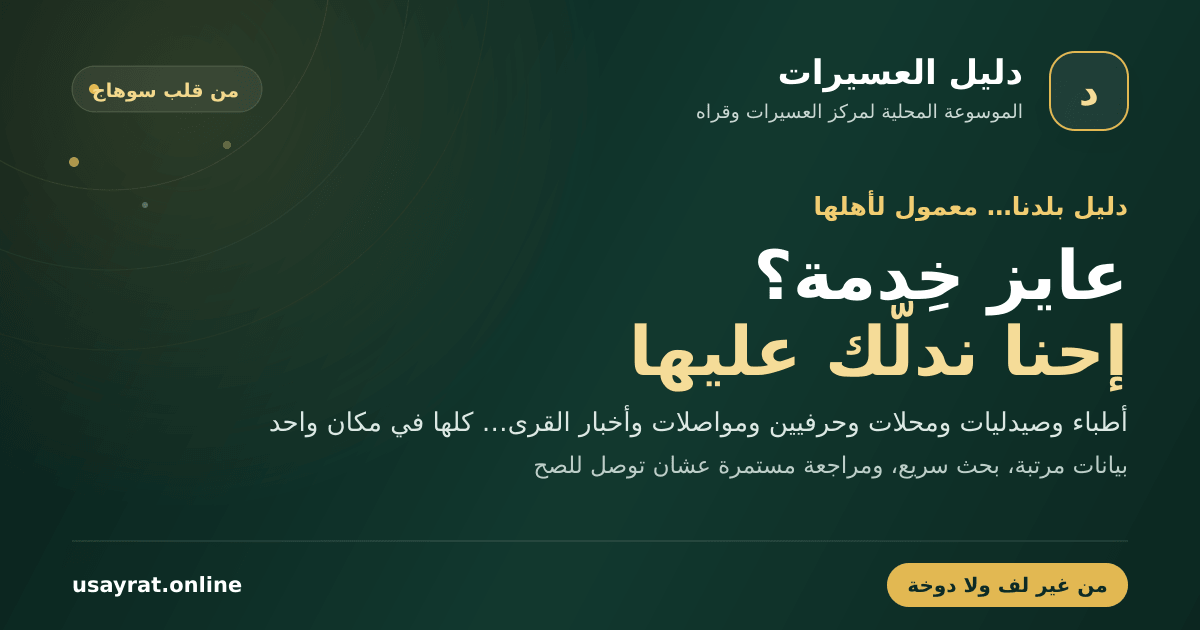
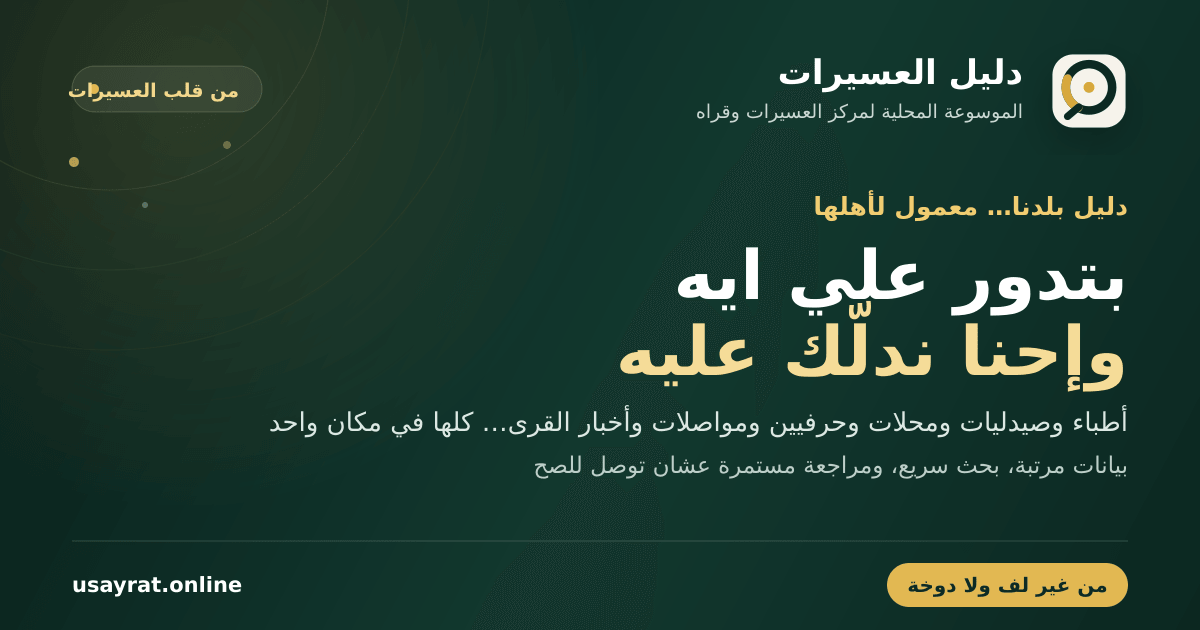
feat: refine Arabic social preview copy

Changed region(s): [[0.4933, 0.3921, 0.9558, 0.6333], [0.8633, 0.0603, 0.9558, 0.2111], [0.0617, 0.1206, 0.1233, 0.181]]

diff --git a/lib/site.ts b/lib/site.ts
@@ -5,7 +5,7 @@ export const siteConfig = {
   shortName: 'دليل العسيرات',
   description:
     'دليل رقمي شامل لمركز العسيرات وقراه بمحافظة سوهاج: أطباء وصيدليات ومحلات وحرفيون ومطاعم ومحامون وخدمات وأرقام مهمة.',
-  socialTitle: 'دليل العسيرات | عايز خدمة؟ إحنا ندلّك عليها',
+  socialTitle: 'دليل العسيرات | بتدور علي ايه وإحنا ندلّك عليه',
   socialDescription:
     'يا مرحب يا طيب! من قلب العسيرات جمعنالك الأطباء والصيدليات والمحلات والحرفيين والمواصلات وأخبار القرى في دليل محلي قوي وسريع، ببيانات مرتبة ومراجعة مستمرة… من غير لف ولا دوخة.',
   url: process.env.NEXT_PUBLIC_SITE_URL || 'https://usayrat.online',

diff --git a/app/layout.tsx b/app/layout.tsx
@@ -36,7 +36,7 @@ import './navigation-scroll.css';
 import './sand-assistant.css';
 
 const rootTitle = 'دليل العسيرات | الموسوعة المحلية الشاملة لمركز العسيرات';
-const socialImage = `${siteConfig.url}/images/social-share-ar.png?v=20260830-ar`;
+const socialImage = `${siteConfig.url}/images/social-share-ar.png?v=20260830-ar-2`;
 
 export const metadata: Metadata = {
   metadataBase: new URL(siteConfig.url),
@@ -74,7 +74,7 @@ export const metadata: Metadata = {
         url: socialImage,
         width: 1200,
         height: 630,
-        alt: 'دليل وموسوعة العسيرات - الدليل المحلي لمركز العسيرات وقراه',
+        alt: 'دليل العسيرات - بتدور علي ايه وإحنا ندلّك عليه من قلب العسيرات',
       },
     ],
   },

diff --git a/lib/metadata.ts b/lib/metadata.ts
@@ -1,8 +1,8 @@
 import type { Metadata } from 'next';
 import { siteConfig } from '@/lib/site';
 
-const defaultSocialImage = `${siteConfig.url}/images/social-share-ar.png?v=20260830-ar`;
-const defaultSocialImageAlt = 'دليل وموسوعة العسيرات - الدليل المحلي لمركز العسيرات وقراه';
+const defaultSocialImage = `${siteConfig.url}/images/social-share-ar.png?v=20260830-ar-2`;
+const defaultSocialImageAlt = 'دليل العسيرات - بتدور علي ايه وإحنا ندلّك عليه من قلب العسيرات';
 
 type BaseMetadataInput = {
   title: string;
